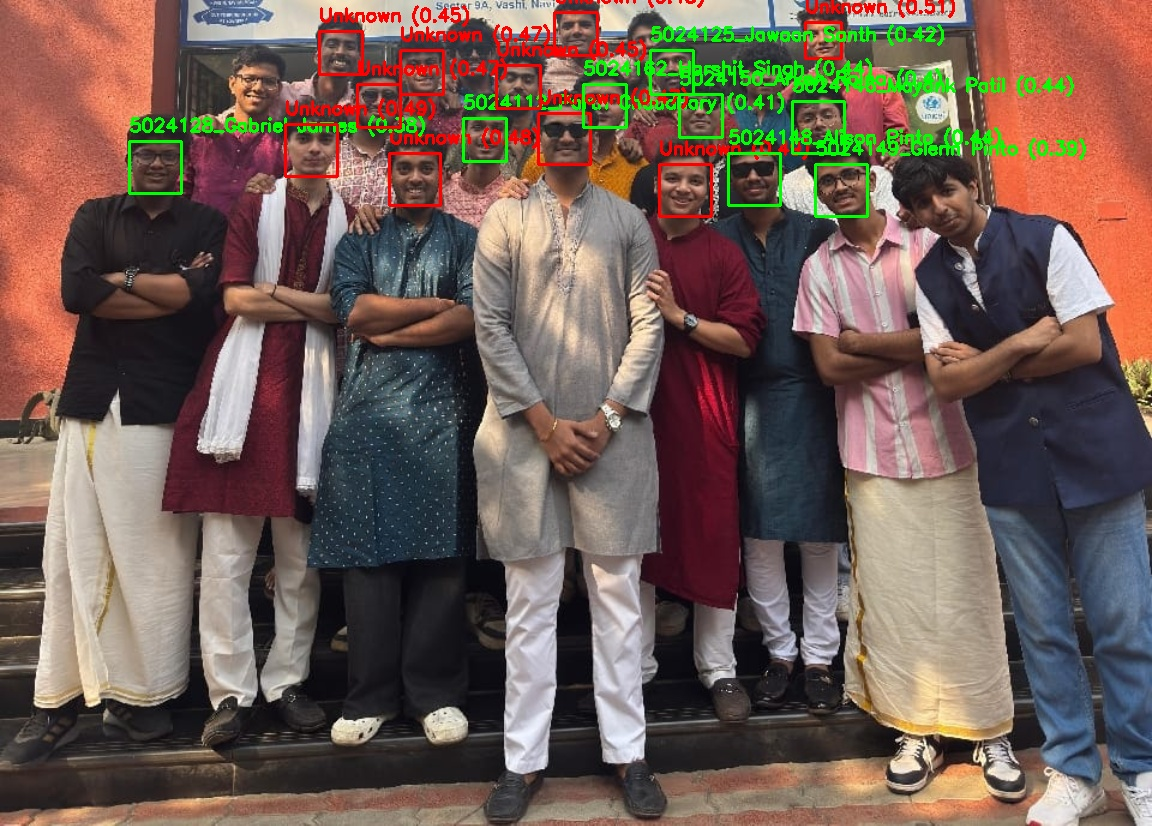
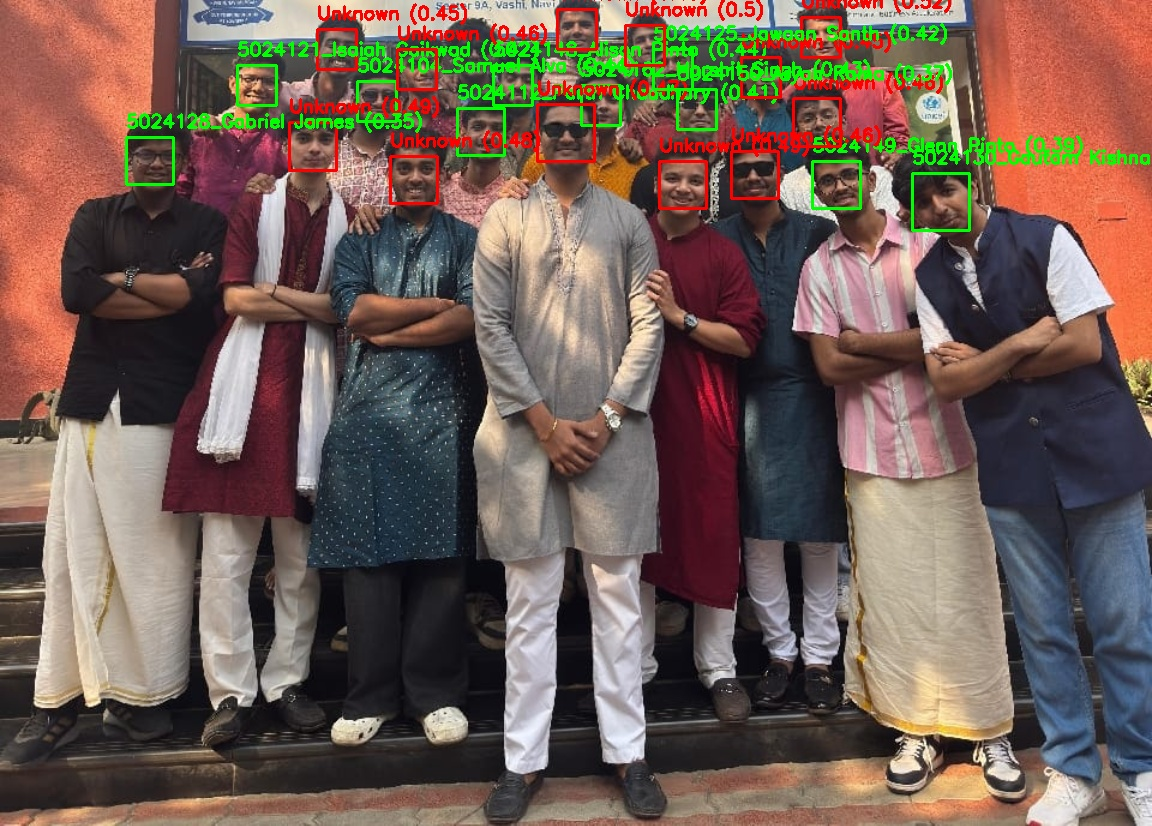
okk

Changed region(s): [[0.0938, 0.0, 1.0, 0.3027], [0.3438, 0.2421, 0.375, 0.2724]]

diff --git a/app/ai/face_encoder.py b/app/ai/face_encoder.py
@@ -1,8 +1,16 @@
+import cv2
 import face_recognition
 
-def encode_faces(image, face_locations):
+def detect_faces(image):
     """
-    Generate face encodings for detected faces.
-    Assumes image is already in RGB format.
+    Detect faces using HOG model.
+    Fast, CPU-friendly, works well for frontal faces in classroom settings.
     """
-    return face_recognition.face_encodings(image, face_locations)
+    rgb_image = cv2.cvtColor(image, cv2.COLOR_BGR2RGB)
+
+    face_locations = face_recognition.face_locations(
+        rgb_image,
+        model="hog",
+        number_of_times_to_upsample=1
+    )
+    return face_locations
